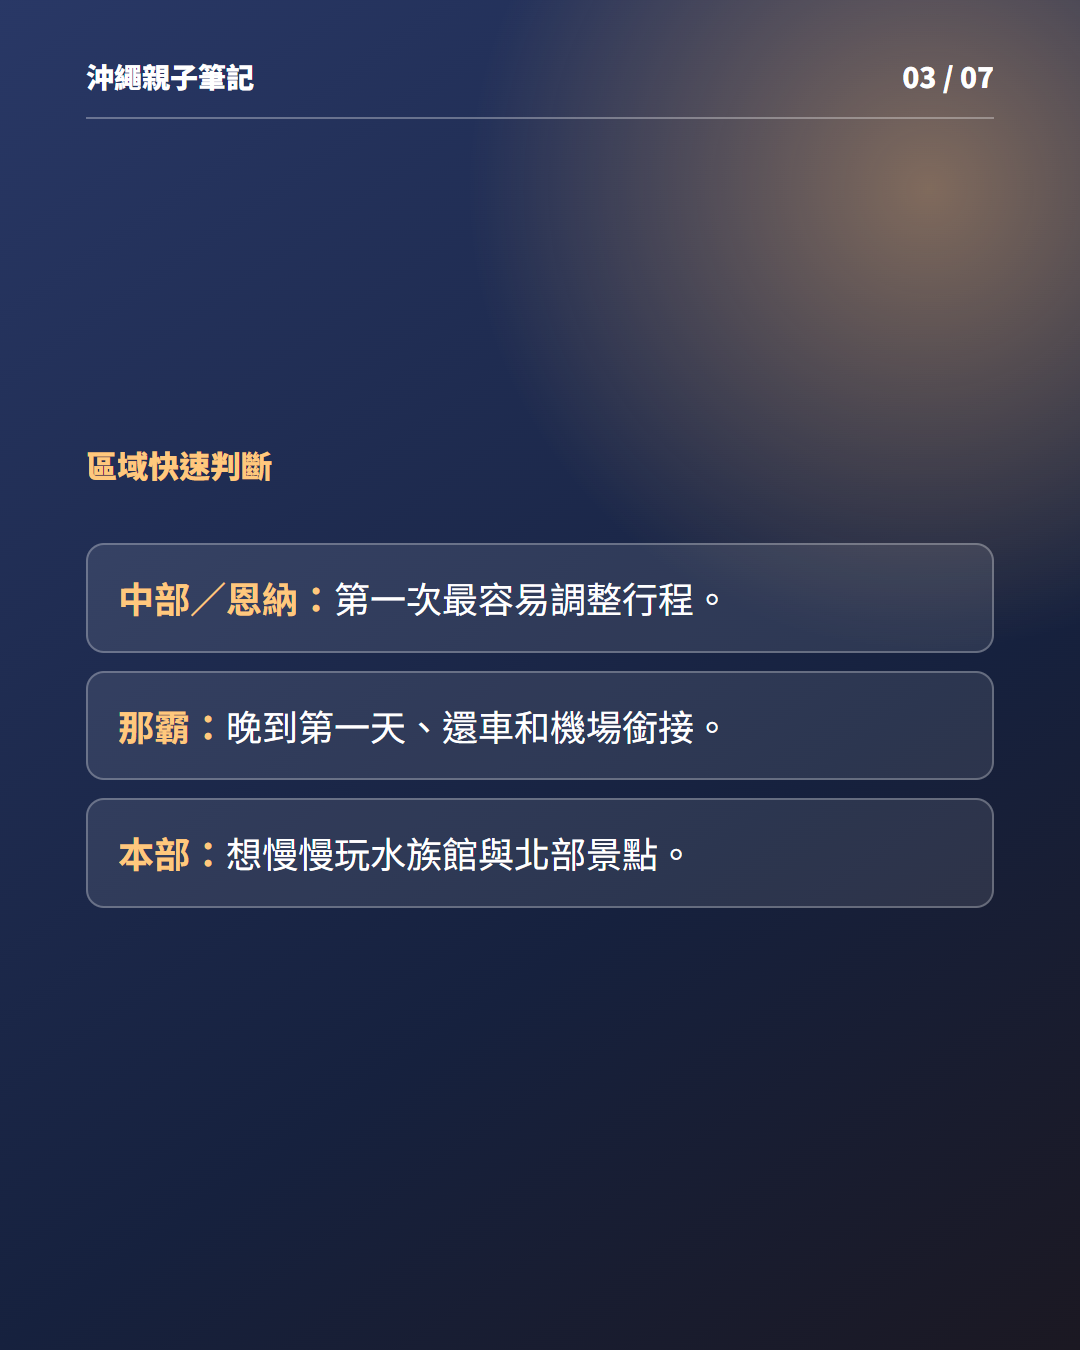
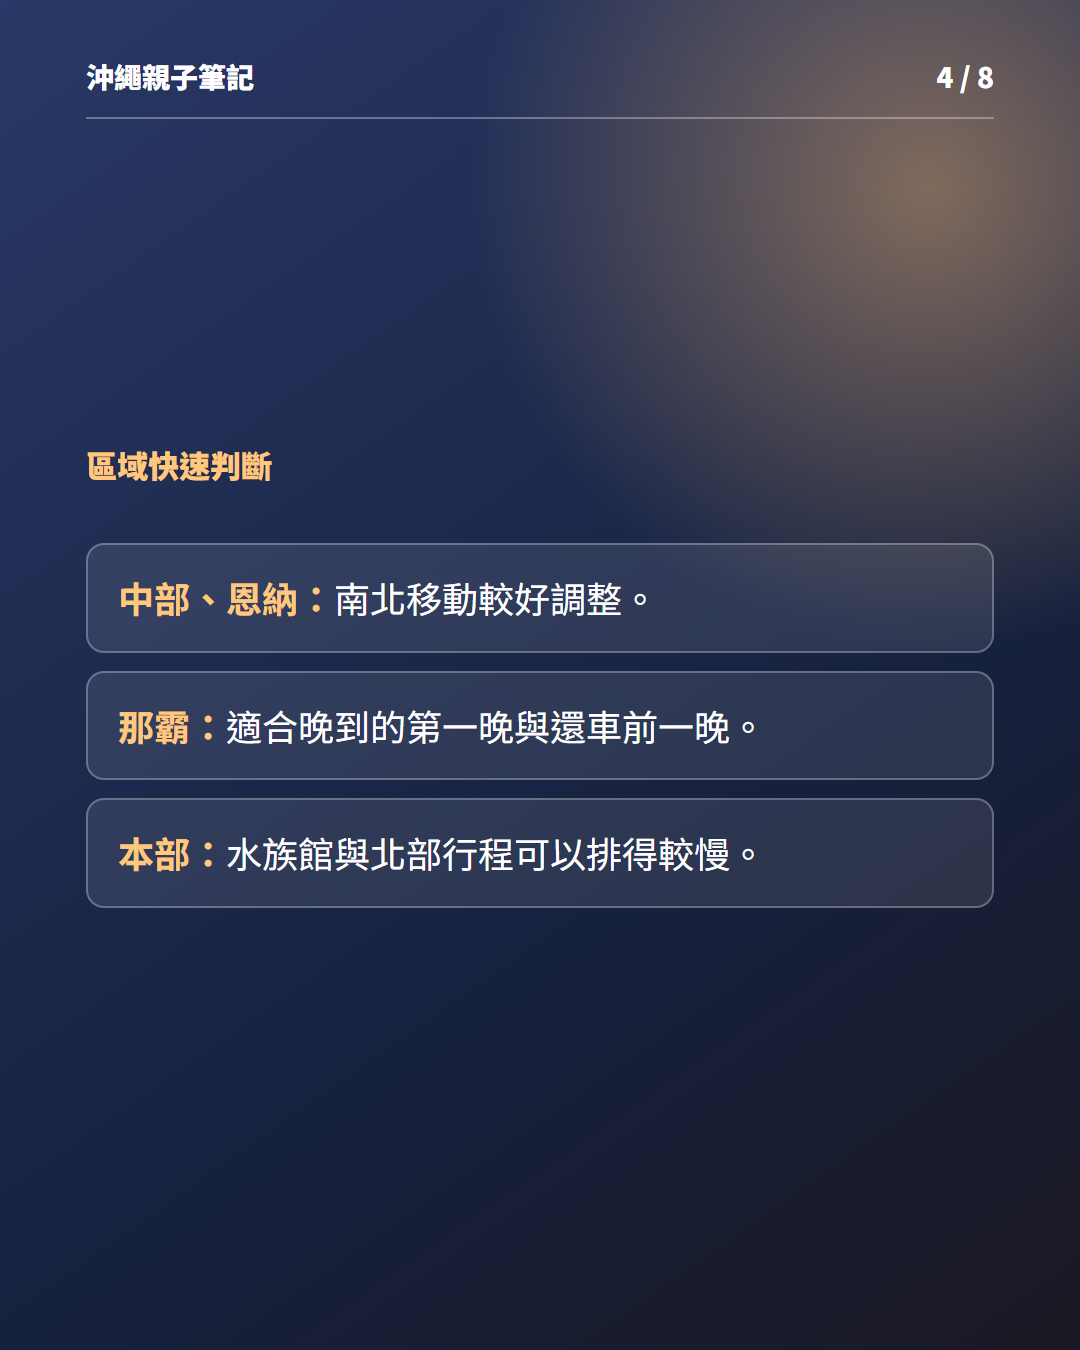
Define audience and refine lodging carousel

diff --git a/work/social/first-okinawa-where-to-stay/render/carousel.html b/work/social/first-okinawa-where-to-stay/render/carousel.html
@@ -1,12 +1,12 @@
 <!doctype html><html lang="zh-Hant"><meta charset="utf-8"><meta name="viewport" content="width=device-width,initial-scale=1"><title>第一次沖繩住宿輪播</title><style>
-*{box-sizing:border-box}body{margin:0;background:#111;font-family:"Noto Sans TC","Microsoft JhengHei",sans-serif}.slide{width:1080px;height:1350px;position:relative;overflow:hidden;background:#1e2639;color:#fff;display:flex;flex-direction:column;justify-content:flex-end;padding:82px 86px}.slide:before{content:"";position:absolute;inset:0;background:linear-gradient(180deg,rgba(8,12,25,.14),rgba(8,12,25,.93));z-index:0}.slide>*{position:relative;z-index:1}.photo{background-size:cover;background-position:center}.plain{justify-content:center;background:linear-gradient(145deg,#293866,#16213e 64%,#1b1822)}.plain:before{background:radial-gradient(circle at 86% 14%,#ffbd7070,transparent 31%)}.brand{position:absolute;top:56px;left:86px;right:86px;display:flex;justify-content:space-between;border-bottom:2px solid #ffffff50;padding-bottom:21px;font-size:28px;font-weight:800}.tag{font-size:31px;color:#ffc87d;font-weight:800;margin-bottom:22px}.title{font-size:79px;font-weight:900;line-height:1.15;margin:0 0 28px}.body{font-size:37px;line-height:1.5;color:#ffffffdf;margin:0 0 72px;max-width:850px}.list{display:grid;gap:18px;margin-top:34px}.item{padding:28px 30px;border:2px solid #ffffff45;border-radius:18px;background:#ffffff18;font-size:36px;line-height:1.38}.item b{color:#ffc87d}.small{font-size:31px;line-height:1.5;color:#ffffffcc}.url{position:absolute;right:86px;bottom:44px;font-size:25px;color:#ffffffaa}.cta{font-size:47px;line-height:1.35;font-weight:800;color:#ffc87d;margin-top:24px}
+*{box-sizing:border-box}body{margin:0;background:#111;font-family:"Noto Sans TC","Microsoft JhengHei",sans-serif}.slide{width:1080px;height:1350px;position:relative;overflow:hidden;background:#1e2639;color:#fff;display:flex;flex-direction:column;justify-content:flex-end;padding:82px 86px}.slide:before{content:"";position:absolute;inset:0;background:linear-gradient(180deg,rgba(8,12,25,.14),rgba(8,12,25,.93));z-index:0}.slide>*{position:relative;z-index:1}.photo{background-size:cover;background-position:center}.plain{justify-content:center;background:linear-gradient(145deg,#293866,#16213e 64%,#1b1822)}.plain:before{background:radial-gradient(circle at 86% 14%,#ffbd7070,transparent 31%)}.brand{position:absolute;top:56px;left:86px;right:86px;display:flex;justify-content:space-between;border-bottom:2px solid #ffffff50;padding-bottom:21px;font-size:28px;font-weight:800}.tag{font-size:31px;color:#ffc87d;font-weight:800;margin-bottom:22px}.title{font-size:79px;font-weight:900;line-height:1.15;margin:0 0 28px}.body{font-size:37px;line-height:1.5;color:#ffffffdf;margin:0 0 72px;max-width:850px}.list{display:grid;gap:18px;margin-top:34px}.item{padding:28px 30px;border:2px solid #ffffff45;border-radius:18px;background:#ffffff18;font-size:36px;line-height:1.38}.item b{color:#ffc87d}.small{font-size:31px;line-height:1.5;color:#ffffffcc}.url{position:absolute;right:86px;bottom:44px;font-size:25px;color:#ffffffaa}.note{position:absolute;right:86px;bottom:44px;font-size:24px;color:#ffffffb8}.with-url{bottom:78px}.cta{font-size:43px;line-height:1.4;font-weight:800;color:#ffc87d;margin-top:24px}
 </style><body>
-<section id="p1" class="slide photo" style="background-image:url('../images/north-stay.png')"><div class="brand"><span>沖繩親子筆記</span><span>第一次住宿</span></div><div class="tag">第一次帶孩子去沖繩</div><h1 class="title">住哪裡，才不會每天都在趕？</h1><p class="body">先看天數與孩子作息，再選區域。</p><div class="url">okinawafamilynotes.com</div></section>
-<section id="p2" class="slide plain"><div class="brand"><span>沖繩親子筆記</span><span>01 / 07</span></div><div class="tag">先選節奏</div><h2 class="title">4 天 3 夜</h2><p class="body">選一個主住宿區就好。天天換飯店，行李和午睡會先把人累壞。</p></section>
-<section id="p3" class="slide photo" style="background-image:url('../images/day-plan.png')"><div class="brand"><span>沖繩親子筆記</span><span>02 / 07</span></div><div class="tag">5 天 4 夜</div><h2 class="title">可以換一次飯店</h2><p class="body">前半段住中北部，後半段回那霸或南部，最後一天會輕鬆很多。</p></section>
-<section id="p4" class="slide plain"><div class="brand"><span>沖繩親子筆記</span><span>03 / 07</span></div><div class="tag">區域快速判斷</div><div class="list"><div class="item"><b>中部／恩納：</b>第一次最容易調整行程。</div><div class="item"><b>那霸：</b>晚到第一天、還車和機場銜接。</div><div class="item"><b>本部：</b>想慢慢玩水族館與北部景點。</div></div></section>
-<section id="p5" class="slide photo" style="background-image:url('../images/room-plan.png')"><div class="brand"><span>沖繩親子筆記</span><span>04 / 07</span></div><div class="tag">訂房前比海景更重要</div><h2 class="title">房間能不能放下全家的生活？</h2><p class="body">推車、行李、洗衣、晚餐和孩子的睡覺時間，都要一起想。</p></section>
-<section id="p6" class="slide plain"><div class="brand"><span>沖繩親子筆記</span><span>05 / 07</span></div><div class="tag">水族館是主行程？</div><h2 class="title">本部町住一晚，就少一段來回</h2><p class="body">但別放在晚到的抵達日。行程中段再北上，通常比較舒服。</p></section>
-<section id="p7" class="slide photo" style="background-image:url('../images/north-stay.png')"><div class="brand"><span>沖繩親子筆記</span><span>06 / 07</span></div><div class="tag">收藏清單</div><h2 class="title">選住宿前，先回答 4 題</h2><p class="body">孩子能坐多久？晚餐在哪吃？停車怎麼算？最後一天幾點還車？</p></section>
-<section id="p8" class="slide plain"><div class="brand"><span>沖繩親子筆記</span><span>收藏這篇</span></div><div class="tag">住宿區域怎麼排</div><h2 class="title">第一次沖繩的住宿節奏，完整整理在網站</h2><p class="cta">先選區域，再選飯店。</p><div class="url">okinawafamilynotes.com/blog/first-okinawa-where-to-stay</div></section>
+<section id="p1" class="slide photo" style="background-image:url('../images/north-stay.png')"><div class="brand"><span>沖繩親子筆記</span><span>1 / 8</span></div><div class="tag">第一次帶孩子去沖繩</div><h1 class="title">住哪裡，才不會每天都在趕？</h1><p class="body">先看天數與孩子作息，再選區域。</p><div class="note with-url">本站自製情境圖</div><div class="url">okinawafamilynotes.com</div></section>
+<section id="p2" class="slide plain"><div class="brand"><span>沖繩親子筆記</span><span>2 / 8</span></div><div class="tag">先選節奏</div><h2 class="title">4 天 3 夜</h2><p class="body">多半選一個主要住宿區就好。每天換飯店，光是整理行李就會壓縮孩子休息的時間。</p></section>
+<section id="p3" class="slide photo" style="background-image:url('../images/day-plan.png')"><div class="brand"><span>沖繩親子筆記</span><span>3 / 8</span></div><div class="tag">5 天 4 夜</div><h2 class="title">需要時，再換一次飯店</h2><p class="body">行程確定會跨北部與那霸時，可以換一次住宿；不必為了換飯店硬拆行程。</p><div class="note">本站自製情境圖</div></section>
+<section id="p4" class="slide plain"><div class="brand"><span>沖繩親子筆記</span><span>4 / 8</span></div><div class="tag">區域快速判斷</div><div class="list"><div class="item"><b>中部、恩納：</b>南北移動較好調整。</div><div class="item"><b>那霸：</b>適合晚到的第一晚與還車前一晚。</div><div class="item"><b>本部：</b>水族館與北部行程可以排得較慢。</div></div></section>
+<section id="p5" class="slide photo" style="background-image:url('../images/room-plan.png')"><div class="brand"><span>沖繩親子筆記</span><span>5 / 8</span></div><div class="tag">訂房時，這些比海景更先看</div><h2 class="title">房間能不能放下全家的生活？</h2><p class="body">推車、行李、洗衣、晚餐和孩子的睡覺時間，都要一起想。</p><div class="note">本站自製情境圖</div></section>
+<section id="p6" class="slide plain"><div class="brand"><span>沖繩親子筆記</span><span>6 / 8</span></div><div class="tag">水族館是主行程？</div><h2 class="title">本部町住一晚，可少一段當天往返</h2><p class="body">排在行程中段較合適；若抵達時間晚，不必第一天直接北上。</p></section>
+<section id="p7" class="slide photo" style="background-image:url('../images/north-stay.png')"><div class="brand"><span>沖繩親子筆記</span><span>7 / 8</span></div><div class="tag">收藏清單</div><h2 class="title">選住宿前，先回答 4 題</h2><p class="body">孩子能坐多久？晚餐在哪解決？停車怎麼算？最後一天幾點還車？</p><div class="note">本站自製情境圖</div></section>
+<section id="p8" class="slide plain"><div class="brand"><span>沖繩親子筆記</span><span>8 / 8</span></div><div class="tag">住宿區域怎麼排</div><h2 class="title">先決定住宿節奏，再開始找飯店</h2><p class="cta">完整區域比較放在個人檔案首頁連結。</p><div class="url">okinawafamilynotes.com</div></section>
 </body></html>

diff --git a/100_Todo/plans/2026-08-04-audience-positioning-validation.md b/100_Todo/plans/2026-08-04-audience-positioning-validation.md
@@ -1,0 +1,112 @@
+# Okinawa Family Notes 受眾、定位與 90 天驗證
+
+更新日期：2026-08-04
+
+這份文件把原本散落在內容計畫、SEO 路線與社群排程中的受眾假設集中起來。往後選文章、社群題目、免費工具與收入入口時，先確認是否服務本頁定義的讀者，再看數據決定保留、調整或停止。
+
+## 一、主要受眾
+
+第一次或第二次帶孩子去沖繩自由行的台灣家庭，通常安排 3～6 天，正在考慮租車或已決定自駕，希望旅程順利、不要每天趕路。
+
+他們不是缺少景點名單，而是常卡在這些決定：
+
+- 第一天、最後一天與住宿區域怎麼排，才不會一直搬行李或開長途車。
+- 小孩臨時想上廁所、肚子餓、睡著或弄髒衣服時，下一步怎麼處理。
+- 安全座椅、租車保險、加油、停車及還車要注意什麼。
+- 下雨、炎熱、海邊或室內景點該如何取捨。
+- 哪些票券、住宿與用品值得比較，哪些可以先不買。
+
+## 二、次要受眾與界線
+
+次要受眾是正在規劃日本親子自由行、但還沒決定是否選沖繩的台灣家庭。只有 Search Console、GA4 或社群連續出現需求時，才延伸到其他日本地區。
+
+目前不優先服務：
+
+- 單人背包客、純購物行程或夜生活旅客。
+- 只追求豪華度假、極限省錢或密集打卡的行程。
+- 沒有親子需求的一般沖繩百科搜尋。
+
+## 三、定位價值
+
+一句話：
+
+> 把帶孩子去沖繩最容易卡住的事情先查清楚，整理成台灣爸媽能直接做決定的答案。
+
+網站不假裝是旅行社、在地人或經常出國的旅遊專家。內容以官方資料、清楚的使用情境、可驗證的站內測試與有界線的個人經驗為基礎。
+
+每一篇內容至少完成一項工作：
+
+1. 幫讀者做選擇，例如住宿區、景點、交通或行程節奏。
+2. 幫讀者避免一個實際問題，例如尿急、下雨、推車不便或還車太趕。
+3. 幫讀者完成下一步，例如查看比較表、使用計算工具或核對官方資訊。
+
+## 四、三個內容支柱
+
+1. **第一次去沖繩怎麼安排**：住宿區、天數、行程刪減、抵達日與最後一天。
+2. **親子自駕途中怎麼處理**：租車、安全座椅、保險、廁所、停車、加油與臨時狀況。
+3. **景點與用品怎麼選**：停留時間、推車、午睡、雨天、餐食、票券與真正有用途的用品。
+
+新題目無法歸入其中一項，或無法回答主要受眾的具體問題時，先放候選清單，不直接製作。
+
+## 五、目前證據
+
+最近完整週報（2026-07-23～07-29）記錄：
+
+- Search Console：73 次點擊、1,304 次曝光、CTR 5.6%、平均排名 6.9。
+- GA4（2026-07-25～07-31）：141 位活躍使用者、443 次瀏覽、105 次自然搜尋工作階段。
+- Facebook 有陌生人觸及，但自然留言、分享與網站點擊仍不足。
+- Instagram 有少量觸及與互動，個人檔案與網站導流仍弱。
+- Klook 8 次點擊、0 筆轉換；Shopee 與 Trip.com 尚缺同期間完整資料。
+
+判讀：搜尋方向已開始被 Google 辨識，不能說前面的文章沒有作用；真正缺口是回訪、信任、社群承接與轉換驗證。
+
+## 六、90 天驗證順序
+
+### 第 1～4 週：確認讀者正在找什麼
+
+- 依 Search Console 已有曝光與排名 5～20 的查詢補強文章。
+- 每週最多兩篇主要文章工作，優先補舊文，不追求文章數量。
+- 記錄哪些問題帶來搜尋點擊、站內閱讀與內部連結行為。
+- 不因短期分潤為零，就增加大量商品或飯店連結。
+
+### 第 5～8 週：累積信任與回訪
+
+- 將有效文章拆成 Facebook、Instagram 與 Threads 不同角度的內容。
+- 測試一份免費、手機可用的親子行前檢查表或行程刪減表。
+- 建立 LINE 或 Email 回訪入口；這項工作不以 AdSense 通過為前提。
+- 每次只改一個變因，例如首圖、開頭、CTA 或入口頁。
+
+### 第 9～13 週：測試可持續收入
+
+- 只在高意圖文章測試票券、住宿、用品或小型數位產品。
+- 比較每 100 次文章瀏覽帶來的連結點擊，而不是只看總點擊。
+- 評估固定格式的行程健檢，但先確認服務範圍與法規界線。
+- 依 90 天資料決定：維持沖繩核心、擴充日本親子主題，或停止沒有需求的支線。
+
+AdSense 與以上三階段平行進行。網站審查通過前不新增廣告版位；電子報不需要等待 AdSense 才能建立。
+
+## 七、每週只看這組數字
+
+- Search Console：點擊、曝光、CTR、平均排名、前 10 個查詢。
+- GA4：自然搜尋工作階段、熱門文章、參與與回訪。
+- 社群：非追蹤者觸及、收藏、分享、個人檔案瀏覽、網站工作階段。
+- 回訪：LINE／Email 新增人數及免費工具使用數。
+- 收入：Klook、Shopee、Trip.com 點擊與轉換；自己的測試點擊另外標示。
+
+### 決策規則
+
+- 同一痛點連續兩週有搜尋或社群反應：補強成內容集群。
+- 觸及高但個人檔案瀏覽低：改首圖或開頭，不增加發文量。
+- 個人檔案瀏覽高但網站點擊低：改簡介、入口頁或 CTA。
+- 文章有人讀但相關連結沒人點：先檢查推薦理由與位置，不堆更多連結。
+- 一個題目連續四週沒有搜尋證據、閱讀或社群反應：暫停，不因已投入時間而繼續擴寫。
+
+## 八、免費諮詢準備
+
+諮詢前只帶本頁與最新一週數據，集中請教三件事：
+
+1. 目前的主要受眾是否過窄，什麼證據出現時才適合擴大主題？
+2. 在無法經常旅行的情況下，哪一種內容與收入模式較能長期維持？
+3. 現階段第一個信任與回訪測試，應先做免費工具、LINE、Email，還是其他更簡單的方式？
+
+外部建議用來檢查與修正本計畫，不取代既有數據，也不因一次談話同時更改受眾、標題、文章、社群與收入入口。

diff --git a/AI_HANDOFF.md b/AI_HANDOFF.md
@@ -1,11 +1,12 @@
 # Okinawa Family Notes Live Handoff
 
-Last updated: 2026-08-04 (Codex, Okinawa World / Gyokusendo article ready for deployment)
+Last updated: 2026-08-04 (Codex, audience plan and accommodation carousel review)
 
 This is the current operational handoff between Codex and Claude Code. Keep it short and update it whenever ownership changes, work pauses, or a task is completed.
 
 ## Daily Master Schedule
 
+- 2026-08-04 strategy and Instagram review (Codex): consolidated the active audience assumptions, positioning, three content pillars, 90-day validation sequence and weekly decision rules in `100_Todo/plans/2026-08-04-audience-positioning-validation.md`. The primary audience is Taiwanese families taking a first or second 3–6-day Okinawa trip with children, especially those planning a rental-car itinerary and needing help with accommodation rhythm, driving logistics, temporary family problems and practical choices. Reworked the unpublished eight-slide Instagram accommodation carousel under `work/social/first-okinawa-where-to-stay/`: corrected all page counts to 1/8–8/8, softened absolute advice, added visible `本站自製情境圖` labels to the generated scenes, replaced the raw-link CTA with the profile-link instruction, created platform-specific Instagram copy and custom alt text, and regenerated all eight 1080×1350 PNGs. Visual review found no clipping or garbled text. The complete preview has been shown to the user in chat; do not publish until the user explicitly approves this exact version. The user also added a permanent whole-message rewrite rule in `AI_COLLABORATION.md`: when one sentence in an external response is corrected, rewrite and return the full coherent message rather than an isolated replacement.
 - 2026-08-04 Okinawa World / Gyokusendo publication run (Codex): converted the completed draft into `content/blog/okinawa-world-gyokusendo-family-guide.md`, using a site-made AI situation cover and a site-made 4:5 family decision graphic. The restricted self-shot interior photos remain private and are not referenced by public content. Rechecked the copy from a reader's perspective, corrected wording that could imply a mid-route cave exit, replaced one repetitive AI-style opening, and kept four natural internal links. Strict content audit passed with 47 articles, 0 critical issues and 37 pre-existing reminders; this article adds no reminder. Production `next build` passed with 72 static pages. Deployment, production mobile verification and Search Console submission follow in the same run; no affiliate link or social post was added.
 - 2026-08-03 execution update: AdSense personal/payment data is complete and Google shows the site is still under review. Review approval does not immediately trigger a PIN; Google sends the address-verification PIN only after earnings reach the verification threshold. The Okinawa World / Gyokusendo draft has completed its first factual, SEO and reader-language correction in `100_Todo/drafts/articles/2026-08-01_okinawa-world-gyokusendo-family-guide.md` and remains unpublished. The Facebook typhoon long-form was approved, published publicly at 21:38, and verified with one image plus the article URL in Wei Fan's first comment. Public post: https://www.facebook.com/permalink.php?story_fbid=pfbid0UjvzNGn4MfeyoKBD4TipyjUpyT9WdVZbJ6AsNCKuLMry2WNyGQJ8kDk6arMTfDAFl&id=61588725730543.
 - 2026-08-02 visible-browser correction: when wei96 must sign in, enter personal or payment data, solve a CAPTCHA or inspect a page, the target page must be brought to the visible foreground and its URL/title verified. Do not claim a background tab is open. This permanent project rule is now in `AGENTS.md`.

diff --git a/work/social/first-okinawa-where-to-stay/copy-instagram.md b/work/social/first-okinawa-where-to-stay/copy-instagram.md
@@ -1,0 +1,35 @@
+# Instagram 輪播文案（待使用者確認）
+
+第一次帶孩子去沖繩，住到海景房不一定會輕鬆。
+
+如果每天都在搬行李、找晚餐和趕車，孩子的午睡被打亂，大人也很難真正休息。
+
+4 天 3 夜，多半可以先選一個主要住宿區；5 天 4 夜若確定會跨北部與那霸，再考慮只換一次住宿。訂房前除了房價，也要一起看停車、晚餐、洗衣、推車和最後一天的還車時間。
+
+住宿區域比較與行程判斷，我整理在個人檔案的首頁連結。先收藏這篇，開始排住宿時再拿出來看。
+
+#沖繩親子旅遊 #沖繩住宿 #沖繩自由行 #親子自駕
+
+## 第一則留言
+
+你選住宿時最在意哪一項：停車、晚餐、洗衣，還是離景點近？
+
+## 替代文字
+
+1. 沖繩海邊住宿外，一家三口帶著行李和推車抵達；文字詢問第一次帶孩子去沖繩住哪裡才不會每天趕路，並標示本站自製情境圖。
+2. 深色資訊卡說明 4 天 3 夜先選一個主要住宿區，避免每天整理行李壓縮孩子休息時間。
+3. 親子在北部景點停車區查看地圖；文字說明 5 天 4 夜若跨北部與那霸，可視需要換一次住宿，並標示本站自製情境圖。
+4. 深色資訊卡比較中部與恩納、那霸、本部三個住宿區域各自適合的行程情況。
+5. 有洗衣機與小廚房的家庭房情境；文字提醒訂房時要考慮推車、行李、洗衣、晚餐與孩子作息，並標示本站自製情境圖。
+6. 深色資訊卡說明水族館是主要行程時，本部町住一晚可少一段當天往返，但不必在晚到的第一天直接北上。
+7. 一家三口推著行李與推車走向住宿；文字列出選住宿前要回答的孩子乘車時間、晚餐、停車及還車時間四題，並標示本站自製情境圖。
+8. 結尾資訊卡提醒先決定住宿節奏，再開始找飯店，完整區域比較放在個人檔案首頁連結。
+
+## 發布設定
+
+- 帳號：`@okinawa.family.notes`
+- 圖片順序：`01.png` 至 `08.png`
+- 公開帳號貼文，留言開放。
+- 不填位置或協作者。
+- 不同步 Facebook、Threads、WhatsApp 或其他帳號。
+- 主文與第一則留言不放不可點擊的網址。

diff --git a/AI_COLLABORATION.md b/AI_COLLABORATION.md
@@ -62,6 +62,7 @@ Traffic remains the first priority. Affiliate presentation may be improved only 
 - **Reader-facing link wording:** A tracked booking or product link may appear only where it genuinely helps a decision, but public article copy, social captions, first comments and user-facing reports must not mention commission, affiliate, partnership, revenue or disclosure wording. Keep tracking and `rel="sponsored"` implementation technical; internal verification records may retain the necessary technical facts.
 - Write in natural Traditional Chinese for Taiwan readers.
 - Public long-form articles should sound natural but still have an editorial tone. Avoid addressing readers as `你家`, and avoid leaning on sensational or overly casual words such as `狼狽` or `崩潰`; use the specific situation and consequence instead.
+- **Whole-message rewrite:** When the user corrects any sentence in an external reply, email or social response, reread and rewrite the complete message before presenting it again. Do not return isolated replacement sentences that leave the surrounding tone fragmented. The finished version must read as one coherent, courteous and reasonably polished piece of Traditional Chinese.
 - **Article approval gate:** Every new blog article and every substantial rewrite must first be shown to the user as a complete draft or verified preview. Do not move it into the public publishing flow, commit it as a live article, push it for deployment, or request Google indexing until the user has reviewed that exact version and explicitly said it may be published. Silence, an earlier approval, or an automation schedule does not count as approval for a new version.
 - When showing image previews, save the image in the project and attach the latest version directly in every review message so it works on mobile. Do not rely on an earlier preview, an OS temp file, or a `C:\...` local path; those are backups only and are not sufficient by themselves.
 - Avoid AI-sounding filler, generic travel copy, and exaggerated titles.
